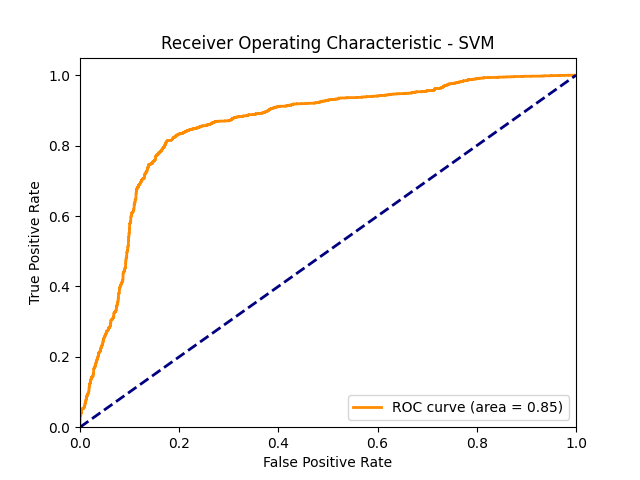
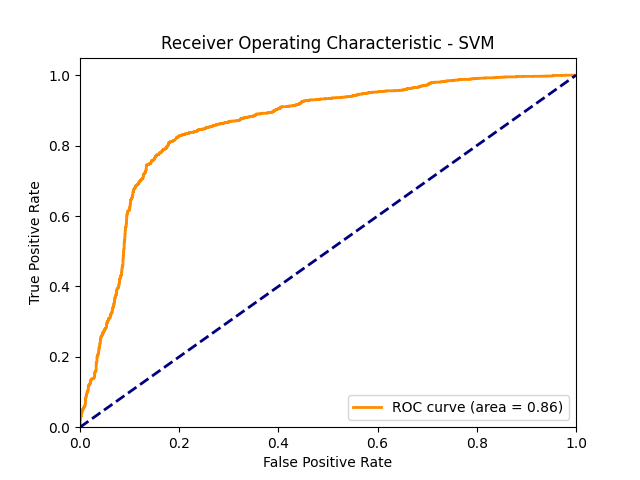
for deploy

diff --git a/app.py b/app.py
@@ -2,7 +2,6 @@ import streamlit as st
 import time
 import requests
 from bs4 import BeautifulSoup
-from PIL import Image
 from selenium import webdriver
 from selenium.webdriver.chrome.options import Options
 from selenium.webdriver.support.ui import WebDriverWait
@@ -15,8 +14,6 @@ from streamlit_extras.let_it_rain import rain
 import pandas as pd
 import machine_learning
 import os
-import ast
-import json
 
 # Set up Streamlit page configuration and custom CSS
 st.set_page_config(
@@ -29,24 +26,34 @@ st.set_page_config(
 st.markdown("""
     <style>
     .stApp {
-        color: #333;
         font-family: 'Segoe UI', Tahoma, Geneva, Verdana, sans-serif;
+        background-color: #f9f9f9;
     }
     .stTitle {
         color: #333;
-        font-size: 36px;
+        font-size: 48px;
     }
-    .stHeader {
+    .stHeader, .stSubheader {
         color: #333;
+        font-size: 32px;
     }
-    .stSubheader {
+    .stMarkdown {
         color: #333;
+        font-size: 24px;
     }
     .stTextInput > div > div > input {
         border: 2px solid #E97451;
+        font-size: 20px;
     }
-    .stSelectBox > div > div > {
+    .stSelectbox > div > div > div > div {
         border: 2px solid #E97451;
+        font-size: 20px;
+    }
+    .stButton > button {
+        background-color: #E97451;
+        color: white;
+        font-size: 20px;
+        padding: 10px 20px;
     }
     .frame {
         display: block;
@@ -68,40 +75,52 @@ st.write('ClickClickClick URL Identifier helps you detect malicious links in ema
 st.subheader('Disclaimer')
 st.write('Our tools are intended to help users identify potential phishing links or legitimate URLs. While we strive for accuracy, results may vary. We are not liable for any damages resulting from tool use. By using our services, you agree to these terms.')
 
+# Define the get_driver function
 def get_driver(width, height):
     options = Options()
     options.add_argument('--disable-gpu')
     options.add_argument('--headless')
     options.add_argument(f"--window-size={width}x{height}")
-    
[1 lines of base64/hex data omitted]
-    driver = webdriver.Chrome(service=service, options=options)
-    
-    return driver
 
[1 lines of base64/hex data omitted]
+    
+    try:
+        driver = webdriver.Chrome(service=service, options=options)
+        return driver
+    except Exception as e:
+        st.error(f"Error initializing ChromeDriver: {e}")
+        return None
+
+# Define the get_screenshot function
 def get_screenshot(app_url, width, height):
     driver = get_driver(width, height)
-    if app_url.endswith('streamlit.app'):
-        driver.get(f"{app_url}/~/+/")
-    else:
-        driver.get(app_url)
-            
-    time.sleep(3)
-            
-    # Explicitly wait for an essential element to ensure content is loaded
-    WebDriverWait(driver, 10).until(EC.presence_of_element_located((By.TAG_NAME, 'body')))
-            
-    # Capture the screenshot
-    driver.save_screenshot('screenshot.png')
-    driver.quit()
+    if not driver:
+        return
 
+    try:
+        if app_url.endswith('streamlit.app'):
+            driver.get(f"{app_url}/~/+/")
+        else:
+            driver.get(app_url)
+
+        time.sleep(3)
+
+        # Explicitly wait for an essential element to ensure content is loaded
+        WebDriverWait(driver, 10).until(EC.presence_of_element_located((By.TAG_NAME, 'body')))
+
+        # Capture the screenshot
+        driver.save_screenshot('screenshot.png')
+    except Exception as e:
+        st.error(f"Error capturing screenshot: {e}")
+    finally:
+        driver.quit()
+
+# Define the submit_url_to_urlscan function
 def submit_url_to_urlscan(url, visibility='public'):
-    headers = {'API-Key': '01ff043a-e60e-404b-a3b5-15aa3f6bc3c5', 'Content-Type': 'application/json'}
+    headers = {'API-Key': '35c0f5ff-38a9-4c9c-8844-1c246ef7012d', 'Content-Type': 'application/json'}
     data = {"url": url, "visibility": visibility}
     response = requests.post('https://urlscan.io/api/v1/scan/', headers=headers, json=data)
     time.sleep(10)  # Initial wait before starting to poll
-    max_attempts = 30  # Maximum number of attempts
-    interval_seconds = 2  # Polling interval in seconds
     if response.status_code == 200:
         return response.json()
     else:
@@ -161,10 +180,7 @@ with st.form("my_form"):
             try:
                 response = requests.get(app_url, verify=False, timeout=4)
                 if response.status_code != 200:
-                    st.error("We could not scan this website! This can happen for multiple reasons:"
-                             "The site could not be contacted (DNS or generic network issues):"
-                             "The site uses insecure TLS (weak ciphers e.g.):" 
-                             "The site requires HTTP authentication: {}".format(app_url))
+                    st.error("We could not scan this website! This can happen for multiple reasons: The site could not be contacted (DNS or generic network issues), The site uses insecure TLS (weak ciphers e.g.), The site requires HTTP authentication.")
                 else:
                     soup = BeautifulSoup(response.content, "html.parser")
                     vector = fe.create_vector(soup)
@@ -222,5 +238,8 @@ st.write('Project Members:')
 st.write('- Morita Chhea')
 st.write('- Socheata Sokhachan')
 st.write('- Sophy Do')        
-st.write('ClickClickClick URL Identifier detects phishing and malicious websites using a machine-learning algorithm. The tool uses high-quality datasets containing phishing URLs and trains them into a model that can differentiate between legitimate and malicious ones.')
-st.write('While "https://www.clickclickclick.tech/" is an online phishing awareness campaign that aims to educate people online on how to aware of phishing link, understanding how it works and how to protect themself. This online campaign runs by Mr.Rosa Rin, a senior student of the Marketing department at Paragon International University.')
+st.write('ClickClickClick URL Identifier detects phishing and malicious websites using a machine-learning algorithm. The tool uses high-quality datasets containing features from various benign and phishing websites. The ClickClickClick URL Identifier uses a Random Forest machine learning model to identify potential phishing websites from features such as the URL, its domain, HTML content, and other heuristics.')
+
+# Footer with contact and privacy policy
+st.write('Contact us at: [customerservice@clickclickclick.com](mailto:ssokhachan@paragoniu.edu.kh)')
+st.write('Privacy Policy: We respect your privacy and do not store or share any information entered in the ClickClickClick URL Identifier.')

diff --git a/data_collector.py b/data_collector.py
@@ -1,6 +1,4 @@
 import requests as re
-from urllib3.exceptions import InsecureRequestWarning
-from urllib3 import disable_warnings
 from bs4 import BeautifulSoup
 import pandas as pd
 import feature_extraction as fe
@@ -8,86 +6,78 @@ import os
 import logging
 from datetime import datetime
 
-disable_warnings(InsecureRequestWarning)
-
-# Setup logging
 logging.basicConfig(filename='phishing_data_update.log', level=logging.INFO, 
                     format='%(asctime)s - %(levelname)s - %(message)s')
 
-# Function to fetch the latest phishing URLs from Phishtank
+logging.info("Script started.")
+
 def fetch_phishtank_data(url):
     try:
         response = re.get(url)
-        if response.status_code == 200:
-            logging.info("Successfully fetched data from Phishtank.")
-            return response.json()
-        else:
-            logging.error(f"Failed to fetch data. Status code: {response.status_code}")
-            return None
-    except re.exceptions.RequestException as e:
-        logging.error(f"Exception occurred while fetching data: {e}")
+        response.raise_for_status()
+        logging.info("Successfully fetched data from Phishtank.")
+        return response.json()
+    except re.RequestException as e:
+        logging.error(f"Error fetching data: {e}")
         return None
 
-# Function to scrape the content of the URL and convert it to a structured form
 def create_structured_data(url_list):
     data_list = []
     for i, url in enumerate(url_list):
         try:
             response = re.get(url, verify=False, timeout=4)
-            if response.status_code != 200:
-                logging.warning(f"{i}. HTTP connection was not successful for the URL: {url}")
-            else:
+            if response.status_code == 200:
                 soup = BeautifulSoup(response.content, "html.parser")
                 vector = fe.create_vector(soup)
                 vector.append(url)
                 data_list.append(vector)
-        except re.exceptions.RequestException as e:
+            else:
+                logging.warning(f"{i}. Failed to fetch URL: {url}")
+        except re.RequestException as e:
             logging.error(f"{i} --> {e}")
             continue
     return data_list
 
-# Check if the CSV file exists and create it if it doesn't
 csv_file = "structured_data_phishing.csv"
 if not os.path.isfile(csv_file):
-    columns = [
-        'has_title', 'has_input', 'has_button', 'has_image', 'has_submit', 'has_link',
-        'has_password', 'has_email_input', 'has_hidden_element', 'has_audio', 'has_video',
-        'number_of_inputs', 'number_of_buttons', 'number_of_images', 'number_of_option',
-        'number_of_list', 'number_of_th', 'number_of_tr', 'number_of_href', 'number_of_paragraph',
-        'number_of_script', 'length_of_title', 'has_h1', 'has_h2', 'has_h3', 'length_of_text',
-        'number_of_clickable_button', 'number_of_a', 'number_of_img', 'number_of_div',
-        'number_of_figure', 'has_footer', 'has_form', 'has_text_area', 'has_iframe', 'has_text_input',
-        'number_of_meta', 'has_nav', 'has_object', 'has_picture', 'number_of_sources', 'number_of_span',
-        'number_of_table', 'URL', 'label'
-    ]
+    columns = ['has_title', 'has_input', 'has_button', 'has_image', 'has_submit', 'has_link',
+               'has_password', 'has_email_input', 'has_hidden_element', 'has_audio', 'has_video',
+               'number_of_inputs', 'number_of_buttons', 'number_of_images', 'number_of_option',
+               'number_of_list', 'number_of_th', 'number_of_tr', 'number_of_href', 'number_of_paragraph',
+               'number_of_script', 'length_of_title', 'has_h1', 'has_h2', 'has_h3', 'length_of_text',
+               'number_of_clickable_button', 'number_of_a', 'number_of_img', 'number_of_div',
+               'number_of_figure', 'has_footer', 'has_form', 'has_text_area', 'has_iframe', 'has_text_input',
+               'number_of_meta', 'has_nav', 'has_object', 'has_picture', 'number_of_sources', 'number_of_span',
+               'number_of_table', 'URL', 'label']
     df = pd.DataFrame(columns=columns)
     df.to_csv(csv_file, index=False)
-    logging.info("CSV file created with headers.")
+    logging.info("Created CSV file with headers.")
 
-# Fetch the latest phishing data from Phishtank
 phishing_url = "http://data.phishtank.com/data/online-valid.json"
 phishtank_data = fetch_phishtank_data(phishing_url)
 
-if phishtank_data is not None:
-    # Convert JSON data to DataFrame
+if phishtank_data:
     phishing_df = pd.json_normalize(phishtank_data)
-    # Extract relevant fields and rename for consistency
     phishing_df = phishing_df[['url', 'verified', 'verification_time', 'online', 'target']]
     phishing_df.columns = ['URL', 'Verified', 'Verification_Time', 'Online', 'Target']
-    # Filter for online and verified phishing URLs
     phishing_df = phishing_df[(phishing_df['Online'] == 'yes') & (phishing_df['Verified'] == 'yes')]
-    # Convert Verification_Time to datetime
     phishing_df['Verification_Time'] = pd.to_datetime(phishing_df['Verification_Time'])
-
-    # Retrieve only the "url" column and convert it to a list
     URL_list = phishing_df['URL'].to_list()
 
-    # Restrict the URL count
-    begin = 0
-    end = 500  # Modify this range as needed
-    collection_list = URL_list[begin:end]
+    collection_list = URL_list[:500]  # Adjust range as needed
+    structured_data = create_structured_data(collection_list)
+
+    if structured_data:
+        df_new = pd.DataFrame(structured_data, columns=columns[:-1] + ['URL'])
+        df_new['label'] = 'phishing'
+        df_old = pd.read_csv(csv_file)
+        df_combined = pd.concat([df_old, df_new], ignore_index=True)
+        df_combined.to_csv(csv_file, index=False)
+        logging.info("Structured data updated and saved.")
+    else:
+        logging.info("No new structured data to update.")
 else:
-    logging.error("Failed to update the phishing dataset.")
+    logging.error("Failed to update phishing data.")
 
-
-
+logging.info("Script finished.")
+logging.shutdown()

diff --git a/README.md b/README.md
@@ -7,6 +7,13 @@ ClickClickClick URL Identifier detects phishing and malicious websites using a m
 # Approach
 We used supervised learning to classify phishing and legitimate websites. We benefit from content-based approach and focus on html of the websites. Also, We used scikit-learn for the ML models. For this project, We created my own data set and defined features. We used requests library to collect data, BeautifulSoup module to parse and extract features. 
 
-We used 4 different ML classifiers of scikit-learn and tested them implementing k-fold cross validation. Firstly obtained their confusion matrices, then calculated their accuracy, precision and recall scores. NB --> Gaussian Naive Bayes SVM --> Support Vector Machine DT --> Decision Tree RF --> Random Forest
+We used 4 different ML classifiers of scikit-learn and tested them implementing k-fold cross validation. Firstly obtained their confusion matrices, then calculated their accuracy, precision, recall scores and perform AUC ROC metrics. NB --> Gaussian Naive Bayes SVM --> Support Vector Machine DT --> Decision Tree RF --> Random Forest
 
 As a result, the Random Forest model has the highest accuracy. ClickClickClick URL Identifier uses the Random Forest Model to detect phishing links.
+
+Model Training Dataset
+About Phishing Dataset 
+Phishtank.org, we ensure that the data of phishing URL is updating everyday by automated fetching from PhishTank, a collaborative house for data and information about phishing on the Internet.
+
+About legitimate URL Dataset
+Tranco-list.eu,the data set has been collect in late April 2024 and has been used to train model in early May 2024. Transco is a Research-Oriented Top Sites Ranking Hardened Against Manipulation
